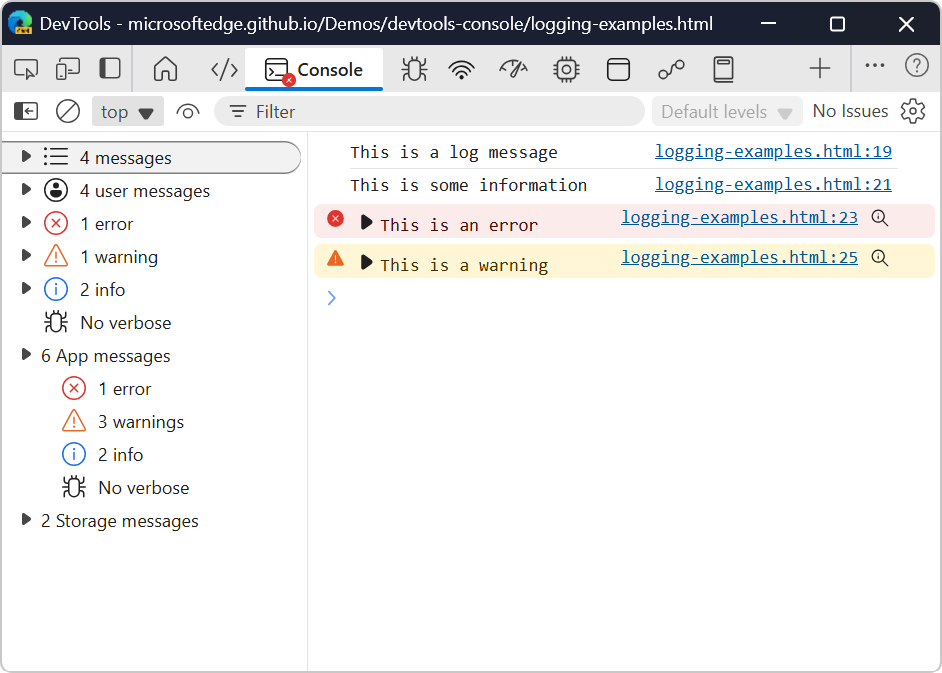
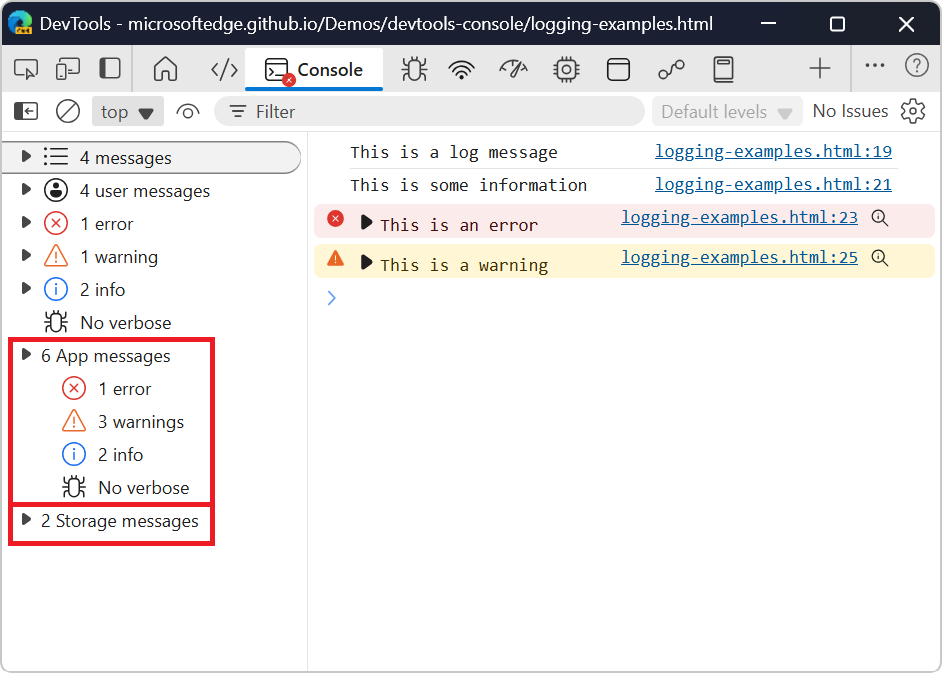
Some formatting and re-structuring of the explainer

Changed region(s): [[0.0, 0.4993, 0.2463, 0.8113]]

diff --git a/explainers/console.context()/explainer.md b/explainers/console.context()/explainer.md
@@ -1,92 +1,127 @@
-# DevTools: console.context()
+# DevTools contextual logging with `console.context()`
 
 Authors:
+
  - *[Leah Tu](https://github.com/leahmsft)*, Microsoft Edge
  - *[Patrick Brosset](https://github.com/captainbrosset)*, Microsoft Edge
 
-
 ## Status of this feature
 
-An initial version of this feature has been available in Microsoft Edge starting with version 79. This explainer proposes improvements to the feature.
+An initial version of this feature has been available in Chromium, and Microsoft Edge starting with version 79. This explainer proposes improvements to the feature.
 
 ## Introduction
 
-When debugging web applications with large code bases having many components from many different teams, it can be challenging for developers to filter through the many log messages that appear in the Console tool and find the relevant ones. Often, developers want to filter the messages so that only the ones from the component they're working on appear. For example, a developer might want to see the logs that are emitted by a given UI component only, or by a database utility module only.
+When debugging web applications with large code bases having many components from many different teams, it can be challenging for developers to filter through the many log messages that appear in the Console tool and find the relevant ones. Often, developers want to filter the messages so that only the ones from the component they're working on appear. For example, a developer might want to see the logs that are emitted by a given UI component only, or by a database utility module only. Other times, developers want to see all logs, but quickly identify which components of their app they belong to.
 
 Developers can use existing techniques that help with this use case, but these techniques have limitations:
 
-* Use the `console.group()` API to group related log messages together.
+* Use the `console.group()` API to group related log messages together. However:
 
-  * However, this requires developers to always open the group before logging and then close it.
-  * Also, unrelated logs could also get included into groups.
-  * Finally, nested groups lead to nested log messages, which might not always be desirable if developers want to focus only on their component.
+  * This requires developers to always open a group before logging and then close it.
+  * Unrelated logs can inadvertently get included into groups.
+  * Nested groups lead to visually nested log messages in the Console, which might not always be desirable if developers want to focus only on their component.
 
 * Prefix log messages with a name.
 
-  * This can be tedious and error prone. Developers can build their own console logging utility to handle this systematically.
+  * This can be tedious and error prone. Developers can build their own console logging utility to handle this systematically, which requires extra work and maintenance.
 
 ## Goals
-Our goal is to improve on the existing experimental `console.context()` method to provide a better solution for logging messages from a multi-component web app's code base, and more easily filter messages in the Console.
+
+Our goal is to improve on the experimental `console.context()` method, which exists in Chromium, to provide a better solution for logging messages from a multi-component web app's code base, and more easily filter messages in the Console.
 
 The `console.context(contextName)` method returns an instance of an object that implements the same methods as the `console` namespace. Developers can create different contexts for the different parts of their apps. Messages logged from a context object _belong_ to the context and can be filtered in the Console tool, currently by typing `context:contextName` in the Console's search field.
 
-The main goals are:
+Our goals are to:
 
 1. Improve the debugging process for large web applications, by making it easier and faster to navigate many console log messages thanks to context-based filtering.
-2. Improve the overall readability of the console.
+2. Improve the overall readability of the console, by making logs that belong to different logging contexts easier to distinguish visually.
 3. Make it easy for developers to create contextual loggers, without requiring them to write their own utility code.
 
-## Use case in DevTools
-Developers can create multiple named contexts for different parts of their application. By logging messages to a named context, you can easily identify and follow the flow of a specific part of your application.
+## Use cases
+
+This proposal addresses three main use cases:
+
+1. Emit logs from a specific context of an application.
+2. Filter the output of the Console tool to show only the logs from a specific context.
+3. Distinguish logs from different contexts visually.
 
 ### Current experience in Chromium
-In the DevTools Console panel, you can filter messages based on the name of the context. If a colour is specified for a context, the log messages will appear in that colour improving the visual clarity of messages from different contexts.
 
-1. Create a specific logger instance for a part of your app:
+The experimental `console.context()` method is already available in Chromium, and somewhat addresses the use cases above:
 
-`const myComponentLogger = console.context("name-of-my-component");`
+1. Emit logs from a specific context of an application.
 
-2. Then log messages as normal, using your new logger:
+   Developers can create different loggers for specific contexts of their application by using the `console.context()` method. Developers can then use the returned logger to log messages as normal.
 
-`myComponentLogger.log("This is a log message from my component");`
+   ```javascript
+   const myLogger = console.context("name-of-my-context");
+   myLogger.log("This is a log message from my context");
+   myLogger.warn("This is a warning message from my context");
+   ```
 
-`myComponentLogger.warn("This is a warning message from my component");`
+   ✅ **The existing Chromium experience addresses this use case.**
 
-3. You could also give your log messages a colour to colour-code them for different loggers:
+1. Filter the output of the Console tool to show only the logs from a specific context.
 
-`myComponentLogger.log("%cThis is a log message from my component", "background-color:lemonchiffon;");`
+   Developers can filter the Console tool by typing `context:name-of-my-context` in the Console's search field. This will show only the logs that were emitted from that context.
 
-Here is what the Console tool might look like, with the colour-coded logs from all of the components of the app:
+   ![DevTools Console panel with filtered context logs](console-with-context-logs-filtered.png)
 
-![DevTools Console panel with context logs](console-with-context-logs.png)
+   ⚠ **The existing Chromium experience somewhat addresses this use case, but requires developers to know the search syntax, and remember the context name.**
 
-Here is what the Console tool would show, once the logs have been filtered by context, to show only the logs from one component:
+1. Distinguish logs from different contexts visually.
 
-![DevTools Console panel with filtered context logs](console-with-context-logs-filtered.png)
+   Developers can use `%c` log formatting to set a color for each log message in a given context, and write some code to prefix the log messages with the context name. For example:
+
+   ```javascript
+   const myLogger = console.context("name-of-my-context");
+   myLogger.log("%c[MY CONTEXT] This is a log message from my component", "background-color:lemonchiffon;");
+   ```
+
+   ❌ **The existing Chromium experience does not address this use case. Extra effort and code is required for each and every message being logged.**
 
 ### Proposed improvements
-This is a useful feature, but it could be improved by making changes to the method and adding in new functionality in the DevTools Console to support this.
 
-For `console.context()`,
+We're proposing to improve the existing Chromium experience by making changes to the `console.context()` method and  by adding in new functionality in the Console tool.
 
-**1. Add a second, optional `color` argument to `console.context()` to accept a colour.**
+#### Changes to the `console.context()` method
 
-Adding a colour to each logger instance will help developers easily find messages at a glace in the Console, without needing to filter other messages. It's possible to add colour to a single log message today. However, in order to colour-code a logger's messages, it would need to be specified for every message to that logger. This is tedious and error prone since it involves not only logging individual messages but also remembering which colour is for each logger. Giving developers the ability to specify a colour to the logger itself will solve this issue and make it more efficient.
+1. Add a second, optional `color` argument to `console.context()`.
 
-If a `color` isn't given, then we should assign a random color that hasn't been used yet when a new logger instance is created. This will ensure that all context log messages are easily distinguishable.
+   Syntax examples:
 
-For the DevTools console UI,
+   ```javascript
+   const myLogger = console.context("app");
+   const myColoredLogger = console.context("storage", { color: "lemonchiffon" });
+   ```
 
-**1. Add a new filter option for contexts**
+   Adding a color to a contextual logger instance will help developers easily find messages at a glace in the Console tool, without needing to filter other messages.
+   
+   Giving developers the ability to specify a color at the logger level makes it easier, faster, and less error prone than what the current experience requires.
 
-It's possible to filter for context log messages by searching `context:context-name`, but this requires extra effort. To make it more user-friendly, we will add context names to the Console sidebar, so that you can simply click on a context and the Console will filter out everything else.
+   If no color is provided, we propose assigning a random color that hasn't been used yet when the new logger instance is created. This will ensure that all context log messages are easily distinguishable.
 
-If you log messages to a logger with `error()`, `warn()`, `info()`, `debug()`, then those will be displayed in a dropdown under the context name with a count.
+#### Changes to the Console tool UI
 
-![DevTools Console panel sidebar with context filters](console-sidebar-with-context-filters.png)
+1. Display context badges next to messages logged from a context.
 
-**2. Add badges to contextual log messages**
+   Since all contexts will have a name and an assigned color (whether randomly or manually assigned), we propose to display these information in the form of a badge, next to logged messages.
+   
+   This will make messages easy to read and help developers see the context for any message at a glance, even without needing to filter messages for their context.
 
-Since all contexts will have an assigned colour, we will display the context name and its colour on a badge on all of its messages. This will keep messages easy to read and help developers see the context for any message at a glace.
+   ![DevTools Console panel with badges on context logs](console-with-context-logs-badges.png)
 
-![DevTools Console panel with badges on context logs](console-with-context-logs-badges.png)
+   Displaying the color of the context in a badge, rather than as the message background color, has benefits too:
+
+   * Messages may be logs, warnings, or errors, and therefore already have a background color that's important to keep.
+   * Messages can be formatted with `%c` to have a custom background color, and we don't want to override that.
+
+1. Add a new filter option for contexts.
+
+   We propose to keep the existing `context:context-name` search syntax, but also add new filtering UI in the Console sidebar.
+   
+   To make filtering for contextual logs more user-friendly, we propose adding context names to the Console sidebar, so that developers can easily click on a context to filter out everything else.
+
+   ![DevTools Console panel sidebar with context filters](console-sidebar-with-context-filters.png)
+
+   As seen above, one category is created in the sidebar for each context. Categories can also be expanded to show the logs from various levels. This way, developers can optionally filter the logs emitted when using the `error()`, `warn()`, `info()`, and `debug()` methods.
